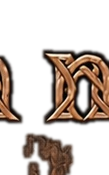
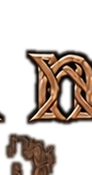
Polish knotwork title kerning, word spacing, alignment, and contrast

diff --git a/index.html b/index.html
@@ -483,11 +483,64 @@ footer *, .footer *, #footer *, .credits *, #credits * {
 .kt-glyph.kt-desc {
   transform: translateY(3.5px);
 }
+
+.title {
+  display: flex !important;
+  flex-direction: column !important;
+  align-items: center !important;
+  gap: 5px !important;
+  padding: 6px 12px !important;
+  margin: 4px auto 6px auto !important;
+  background: radial-gradient(ellipse at center, rgba(15, 9, 4, 0.62) 0%, rgba(15, 9, 4, 0.25) 68%, transparent 100%) !important;
+  border-radius: 12px !important;
+}
+.kt-line {
+  display: flex !important;
+  align-items: center !important;
+  justify-content: center !important;
+  gap: 11px !important;
+}
+.kt-word {
+  display: inline-flex !important;
+  align-items: center !important;
+  gap: 0px !important;
+}
+.kt-glyph {
+  height: 18px !important;
+  width: auto !important;
+  margin: 0 -0.5px !important;
+  filter: brightness(1.22) contrast(1.15) drop-shadow(0 1px 2px rgba(0, 0, 0, 0.98)) !important;
+}
+.kt-glyph.kt-cap {
+  height: 24px !important;
+  transform: translateY(-1px) !important;
+}
+.kt-glyph.kt-asc {
+  height: 21px !important;
+  transform: translateY(-1px) !important;
+}
+.kt-glyph.kt-desc {
+  height: 20px !important;
+  transform: translateY(3px) !important;
+}
+.kt-glyph.kt-cap.kt-desc {
+  height: 25px !important;
+  transform: translateY(2px) !important;
+}
+.kt-apos {
+  font-family: Georgia, serif !important;
+  font-weight: 900 !important;
+  font-size: 18px !important;
+  color: #deb078 !important;
+  text-shadow: 0 1px 2px #000 !important;
+  transform: translateY(-4px) !important;
+  margin: 0 1px !important;
+}
 </style>
 </head>
 <body>
 <div id="root">
-  <div class="title"><div class="kt-line"><img class="kt-glyph kt-cap kt-desc" src="title_glyphs/g.png?v=1" alt="G"><img class="kt-glyph kt-desc" src="title_glyphs/j.png?v=1" alt="j"><img class="kt-glyph" src="title_glyphs/a.png?v=1" alt="a"><img class="kt-glyph" src="title_glyphs/k.png?v=1" alt="k"><img class="kt-glyph" src="title_glyphs/k.png?v=1" alt="k"><img class="kt-glyph" src="title_glyphs/r.png?v=1" alt="r"> <img class="kt-glyph kt-cap" src="title_glyphs/d.png?v=1" alt="D"><img class="kt-glyph" src="title_glyphs/a.png?v=1" alt="a"><img class="kt-glyph kt-desc" src="title_glyphs/g.png?v=1" alt="g"><img class="kt-glyph" src="title_glyphs/n.png?v=1" alt="n"><img class="kt-glyph kt-desc" src="title_glyphs/y_acute.png?v=1" alt="ý"><img class="kt-glyph kt-desc" src="title_glyphs/j.png?v=1" alt="j"><img class="kt-glyph" src="title_glyphs/a.png?v=1" alt="a"><img class="kt-glyph" src="title_glyphs/r.png?v=1" alt="r"><img class="kt-glyph" src="title_glyphs/s.png?v=1" alt="s"><img class="kt-glyph" src="title_glyphs/o.png?v=1" alt="o"><img class="kt-glyph" src="title_glyphs/n.png?v=1" alt="n"><span class="kt-apos">’</span><img class="kt-glyph" src="title_glyphs/s.png?v=1" alt="s"></div><div class="kt-line"><img class="kt-glyph kt-cap" src="title_glyphs/o.png?v=1" alt="O"><img class="kt-glyph" src="title_glyphs/l.png?v=1" alt="l"><img class="kt-glyph" src="title_glyphs/d.png?v=1" alt="d"> <img class="kt-glyph kt-cap" src="title_glyphs/n.png?v=1" alt="N"><img class="kt-glyph" src="title_glyphs/o.png?v=1" alt="o"><img class="kt-glyph" src="title_glyphs/r.png?v=1" alt="r"><img class="kt-glyph" src="title_glyphs/s.png?v=1" alt="s"><img class="kt-glyph" src="title_glyphs/e.png?v=1" alt="e"> <img class="kt-glyph kt-cap" src="title_glyphs/d.png?v=1" alt="D"><img class="kt-glyph" src="title_glyphs/i.png?v=1" alt="i"><img class="kt-glyph" src="title_glyphs/c.png?v=1" alt="c"><img class="kt-glyph" src="title_glyphs/t.png?v=1" alt="t"><img class="kt-glyph" src="title_glyphs/i.png?v=1" alt="i"><img class="kt-glyph" src="title_glyphs/o.png?v=1" alt="o"><img class="kt-glyph" src="title_glyphs/n.png?v=1" alt="n"><img class="kt-glyph" src="title_glyphs/a.png?v=1" alt="a"><img class="kt-glyph" src="title_glyphs/r.png?v=1" alt="r"><img class="kt-glyph kt-desc" src="title_glyphs/y.png?v=1" alt="y"></div></div>
+  <div class="title"><div class="kt-line"><span class="kt-word"><img class="kt-glyph kt-cap kt-desc" src="title_glyphs/g.png?v=3" alt="G"><img class="kt-glyph kt-desc" src="title_glyphs/j.png?v=3" alt="j"><img class="kt-glyph" src="title_glyphs/a.png?v=3" alt="a"><img class="kt-glyph kt-asc" src="title_glyphs/k.png?v=3" alt="k"><img class="kt-glyph kt-asc" src="title_glyphs/k.png?v=3" alt="k"><img class="kt-glyph" src="title_glyphs/r.png?v=3" alt="r"></span><span class="kt-word"><img class="kt-glyph kt-cap" src="title_glyphs/d.png?v=3" alt="D"><img class="kt-glyph" src="title_glyphs/a.png?v=3" alt="a"><img class="kt-glyph kt-desc" src="title_glyphs/g.png?v=3" alt="g"><img class="kt-glyph" src="title_glyphs/n.png?v=3" alt="n"><img class="kt-glyph kt-desc kt-asc" src="title_glyphs/y_acute.png?v=3" alt="ý"><img class="kt-glyph kt-desc" src="title_glyphs/j.png?v=3" alt="j"><img class="kt-glyph" src="title_glyphs/a.png?v=3" alt="a"><img class="kt-glyph" src="title_glyphs/r.png?v=3" alt="r"><img class="kt-glyph" src="title_glyphs/s.png?v=3" alt="s"><img class="kt-glyph" src="title_glyphs/o.png?v=3" alt="o"><img class="kt-glyph" src="title_glyphs/n.png?v=3" alt="n"><span class="kt-apos">’</span><img class="kt-glyph" src="title_glyphs/s.png?v=3" alt="s"></span></div><div class="kt-line"><span class="kt-word"><img class="kt-glyph kt-cap" src="title_glyphs/o.png?v=3" alt="O"><img class="kt-glyph kt-asc" src="title_glyphs/l.png?v=3" alt="l"><img class="kt-glyph kt-asc" src="title_glyphs/d.png?v=3" alt="d"></span><span class="kt-word"><img class="kt-glyph kt-cap" src="title_glyphs/n.png?v=3" alt="N"><img class="kt-glyph" src="title_glyphs/o.png?v=3" alt="o"><img class="kt-glyph" src="title_glyphs/r.png?v=3" alt="r"><img class="kt-glyph" src="title_glyphs/s.png?v=3" alt="s"><img class="kt-glyph" src="title_glyphs/e.png?v=3" alt="e"></span><span class="kt-word"><img class="kt-glyph kt-cap" src="title_glyphs/d.png?v=3" alt="D"><img class="kt-glyph" src="title_glyphs/i.png?v=3" alt="i"><img class="kt-glyph" src="title_glyphs/c.png?v=3" alt="c"><img class="kt-glyph kt-asc" src="title_glyphs/t.png?v=3" alt="t"><img class="kt-glyph" src="title_glyphs/i.png?v=3" alt="i"><img class="kt-glyph" src="title_glyphs/o.png?v=3" alt="o"><img class="kt-glyph" src="title_glyphs/n.png?v=3" alt="n"><img class="kt-glyph" src="title_glyphs/a.png?v=3" alt="a"><img class="kt-glyph" src="title_glyphs/r.png?v=3" alt="r"><img class="kt-glyph kt-desc" src="title_glyphs/y.png?v=3" alt="y"></span></div></div><div class="kt-line"><img class="kt-glyph kt-cap" src="title_glyphs/o.png?v=1" alt="O"><img class="kt-glyph" src="title_glyphs/l.png?v=1" alt="l"><img class="kt-glyph" src="title_glyphs/d.png?v=1" alt="d"> <img class="kt-glyph kt-cap" src="title_glyphs/n.png?v=1" alt="N"><img class="kt-glyph" src="title_glyphs/o.png?v=1" alt="o"><img class="kt-glyph" src="title_glyphs/r.png?v=1" alt="r"><img class="kt-glyph" src="title_glyphs/s.png?v=1" alt="s"><img class="kt-glyph" src="title_glyphs/e.png?v=1" alt="e"> <img class="kt-glyph kt-cap" src="title_glyphs/d.png?v=1" alt="D"><img class="kt-glyph" src="title_glyphs/i.png?v=1" alt="i"><img class="kt-glyph" src="title_glyphs/c.png?v=1" alt="c"><img class="kt-glyph" src="title_glyphs/t.png?v=1" alt="t"><img class="kt-glyph" src="title_glyphs/i.png?v=1" alt="i"><img class="kt-glyph" src="title_glyphs/o.png?v=1" alt="o"><img class="kt-glyph" src="title_glyphs/n.png?v=1" alt="n"><img class="kt-glyph" src="title_glyphs/a.png?v=1" alt="a"><img class="kt-glyph" src="title_glyphs/r.png?v=1" alt="r"><img class="kt-glyph kt-desc" src="title_glyphs/y.png?v=1" alt="y"></div></div>
   <div class="top-bar">
     <button id="homeBtn" class="nav-btn" style="display:none">Home</button>
     <input id="searchBox" type="search" placeholder="Search Old Norse..." autocomplete="off" />
